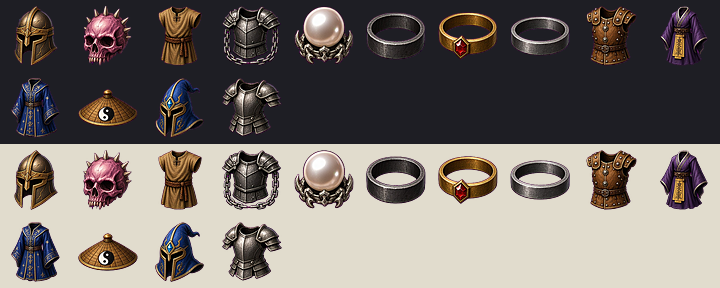
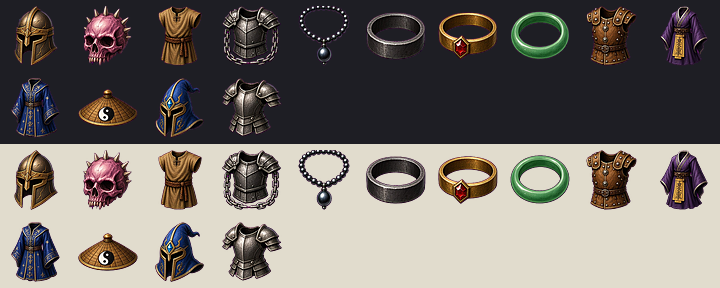
美术补缺 I1 批：14 个消耗品/杂项原创图标（药水、卷轴、沃玛号角、金币、肉、骨头，含 @2x），并按物品名重绘黑珍珠项链/翡翠手镯；更新文档

diff --git a/docs/art-gap-audit.md b/docs/art-gap-audit.md
@@ -274,13 +274,27 @@
 | E3 | bone_helm | 骷髅头盔 | `public/assets/items/eq_bone_helm.png`（+@2x） | 64×64 | 参考原作：图集 e2a；颜色偏粉，存疑 |
 | E3 | cloth | 布衣 | `public/assets/items/eq_cloth.png`（+@2x） | 64×64 | 参考原作 |
 | E3 | armor | 重盔甲 | `public/assets/items/eq_armor.png`（+@2x） | 64×64 | 参考原作 |
-| E3 | pearl | 珍珠 | `public/assets/items/eq_pearl.png`（+@2x） | 64×64 | 推测 |
+| E3 | pearl | 黑珍珠项链 | `public/assets/items/eq_pearl.png`（+@2x） | 64×64 | 推测：自创物品；E3 首版为白珍珠，I1 批按物品名重绘为黑珍珠项链（图集 i1a） |
 | E3 | iron_ring | 铁戒指 | `public/assets/items/eq_iron_ring.png`（+@2x） | 64×64 | 推测 |
 | E3 | gold_ring | 金戒指 | `public/assets/items/eq_gold_ring.png`（+@2x） | 64×64 | 参考原作 |
-| E3 | bracelet | 手镯 | `public/assets/items/eq_bracelet.png`（+@2x） | 64×64 | 推测：与铁戒指形近，存疑 |
+| E3 | bracelet | 翡翠手镯 | `public/assets/items/eq_bracelet.png`（+@2x） | 64×64 | 推测：自创物品；E3 首版为银镯，I1 批按物品名重绘为翡翠镯（图集 i1a） |
 | E3 | light_armor | 轻型盔甲 | `public/assets/items/eq_light_armor.png`（+@2x） | 64×64 | 参考原作 |
 | E3 | soul_robe | 灵魂战衣 | `public/assets/items/eq_soul_robe.png`（+@2x） | 64×64 | 参考原作 |
 | E3 | magic_robe | 魔法长袍 | `public/assets/items/eq_magic_robe.png`（+@2x） | 64×64 | 参考原作 |
 | E3 | tao_helm | 道士头盔 | `public/assets/items/eq_tao_helm.png`（+@2x） | 64×64 | 改编：斗笠造型 |
 | E3 | magic_helm | 魔法头盔 | `public/assets/items/eq_magic_helm.png`（+@2x） | 64×64 | 参考原作 |
 | E3 | medium_armor | 中型盔甲 | `public/assets/items/eq_medium_armor.png`（+@2x） | 64×64 | 参考原作 |
+| I1 | hp_small | 金创药(小量) | `public/assets/items/hp_small.png`（+@2x） | 64×64 | 改编：原创替换现有 WoW 占位图标；命名 items/<id>.png（同 bless_oil/black_iron 规则），药水需把 assets/potions/ 路径改为 assets/items/ |
+| I1 | hp_mid | 金创药(中量) | `public/assets/items/hp_mid.png`（+@2x） | 64×64 | 改编：原创替换现有 WoW 占位图标；命名 items/<id>.png（同 bless_oil/black_iron 规则），药水需把 assets/potions/ 路径改为 assets/items/ |
+| I1 | mp_small | 魔法药(小量) | `public/assets/items/mp_small.png`（+@2x） | 64×64 | 改编：原创替换现有 WoW 占位图标；命名 items/<id>.png（同 bless_oil/black_iron 规则），药水需把 assets/potions/ 路径改为 assets/items/ |
+| I1 | mp_mid | 魔法药(中量) | `public/assets/items/mp_mid.png`（+@2x） | 64×64 | 改编：原创替换现有 WoW 占位图标；命名 items/<id>.png（同 bless_oil/black_iron 规则），药水需把 assets/potions/ 路径改为 assets/items/ |
+| I1 | hp_strong | 强效金创药 | `public/assets/items/hp_strong.png`（+@2x） | 64×64 | 改编：原创替换现有 WoW 占位图标；命名 items/<id>.png（同 bless_oil/black_iron 规则），药水需把 assets/potions/ 路径改为 assets/items/ |
+| I1 | mp_strong | 强效魔法药 | `public/assets/items/mp_strong.png`（+@2x） | 64×64 | 改编：原创替换现有 WoW 占位图标；命名 items/<id>.png（同 bless_oil/black_iron 规则），药水需把 assets/potions/ 路径改为 assets/items/ |
+| I1 | sun_water | 太阳水 | `public/assets/items/sun_water.png`（+@2x） | 64×64 | 改编：原创替换现有 WoW 占位图标；命名 items/<id>.png（同 bless_oil/black_iron 规则），药水需把 assets/potions/ 路径改为 assets/items/ |
+| I1 | return_scroll | 回城卷 | `public/assets/items/return_scroll.png`（+@2x） | 64×64 | 改编：原创替换现有 WoW 占位图标；命名 items/<id>.png（同 bless_oil/black_iron 规则），药水需把 assets/potions/ 路径改为 assets/items/ |
+| I1 | dungeon_scroll | 地牢逃脱卷 | `public/assets/items/dungeon_scroll.png`（+@2x） | 64×64 | 改编：原创替换现有 WoW 占位图标；命名 items/<id>.png（同 bless_oil/black_iron 规则），药水需把 assets/potions/ 路径改为 assets/items/ |
+| I1 | woma_horn | 沃玛号角 | `public/assets/items/woma_horn.png`（+@2x） | 64×64 | 改编：原创替换现有 WoW 占位图标；命名 items/<id>.png（同 bless_oil/black_iron 规则），药水需把 assets/potions/ 路径改为 assets/items/ |
+| I1 | gold | 金币 | `public/assets/items/gold.png`（+@2x） | 64×64 | 改编：原创替换现有 WoW 占位图标；命名 items/<id>.png（同 bless_oil/black_iron 规则），药水需把 assets/potions/ 路径改为 assets/items/ |
+| I1 | chicken | 鸡肉 | `public/assets/items/chicken.png`（+@2x） | 64×64 | 改编：原创替换现有 WoW 占位图标；命名 items/<id>.png（同 bless_oil/black_iron 规则），药水需把 assets/potions/ 路径改为 assets/items/ |
+| I1 | meat | 鹿肉 | `public/assets/items/meat.png`（+@2x） | 64×64 | 改编：原创替换现有 WoW 占位图标；命名 items/<id>.png（同 bless_oil/black_iron 规则），药水需把 assets/potions/ 路径改为 assets/items/ |
+| I1 | bone | 骷髅骨头 | `public/assets/items/bone.png`（+@2x） | 64×64 | 改编：原创替换现有 WoW 占位图标；命名 items/<id>.png（同 bless_oil/black_iron 规则），药水需把 assets/potions/ 路径改为 assets/items/ |
